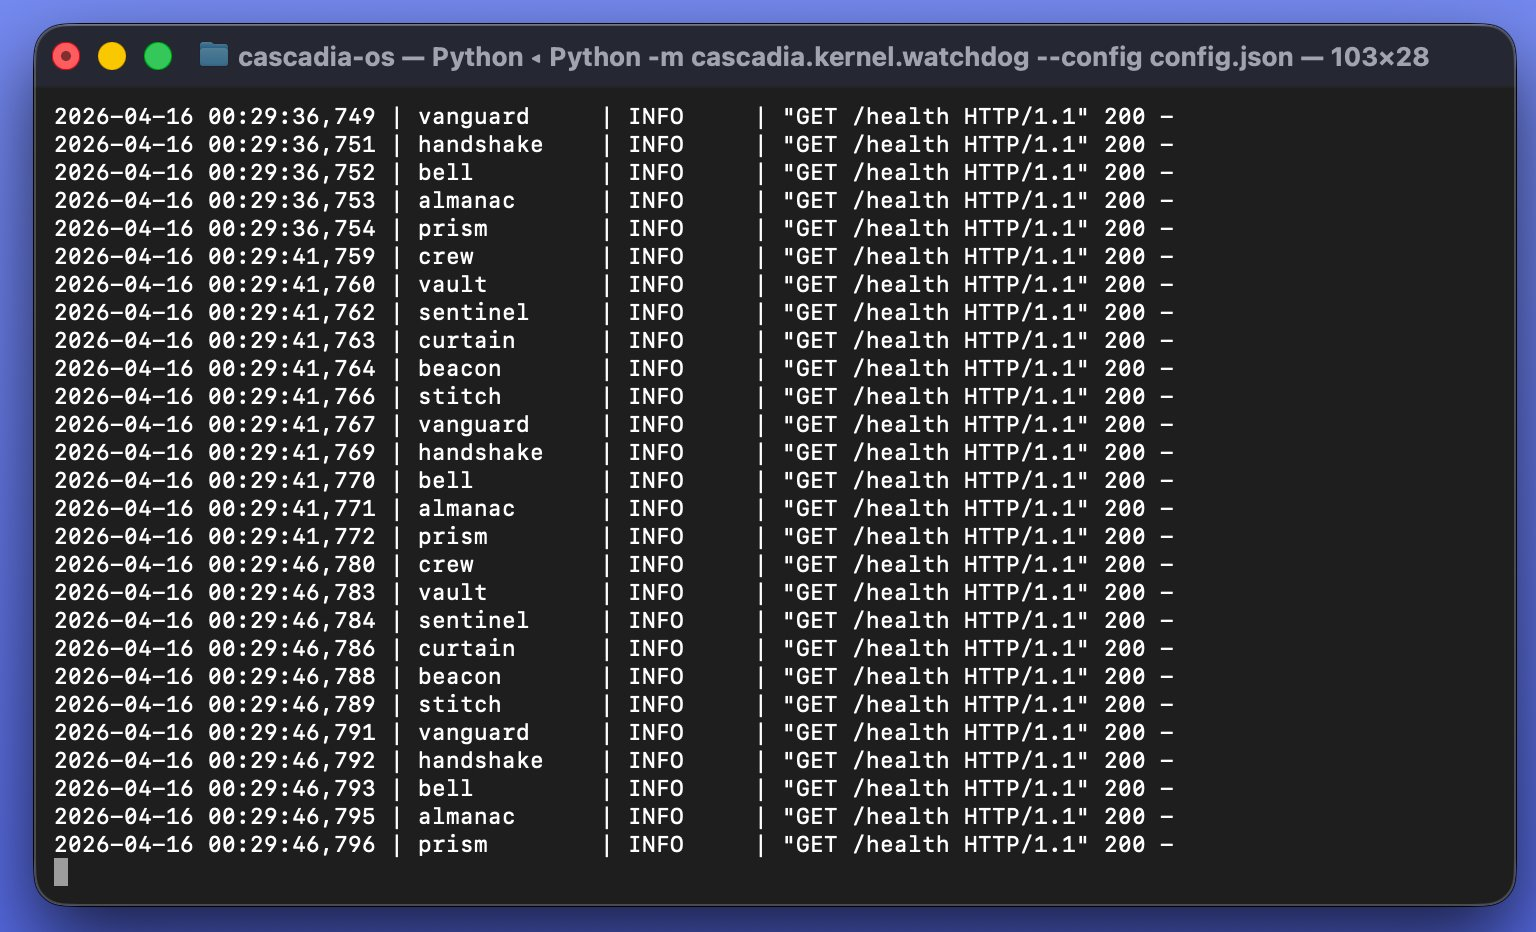
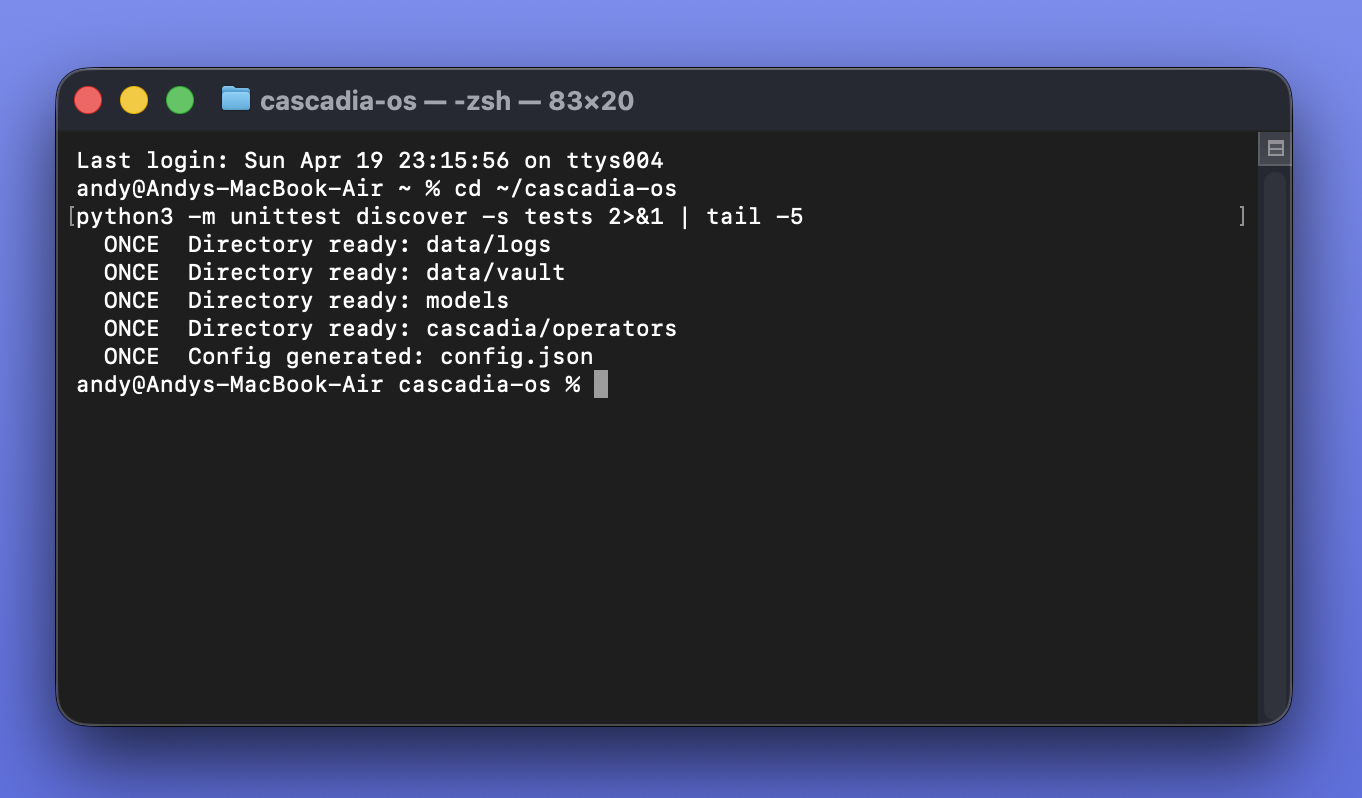
feat: 16 screenshots added — install, PRISM, operators, demo, health, approvals, RECON dashboard, GPU inference

diff --git a/README.md b/README.md
@@ -48,17 +48,39 @@ bash demo.sh
 
 ## See it working
 
-**One-click install — done in under a minute:**
+**One command installs everything — under a minute:**
 ![Install](./assets/install.png)
+![Install Complete](./assets/install_complete.png)
 
-**Watchdog running — all 11 kernel components healthy:**
-![Watchdog](./assets/watchdog.png)
-
-**PRISM dashboard — live system status:**
+**PRISM dashboard — all operators online, SwiftBar live status:**
 ![PRISM Dashboard](./assets/prism.png)
 
-**Crash recovery — 21/21 tests passed:**
-![Crash Recovery](./assets/crash_recovery.png)
+**Settings — hardware detection, Local AI recommended automatically:**
+![Settings](./assets/settings.png)
+
+**Health & Observability — infrastructure and operators, all green:**
+![Health](./assets/health.png)
+
+**Real metrics from session — 15 runs, $0.017, zero failures:**
+![Observability](./assets/observability.png)
+
+**Approval gates — nothing sensitive executes without human sign-off:**
+![Approvals](./assets/approvals.png)
+
+**Operators at work — Debrief extracting action items from call notes:**
+![Debrief](./assets/debrief.png)
+
+**CHIEF morning brief — RECON dashboard showing 67 rows, 283 research cycles:**
+![RECON Dashboard](./assets/recon_dashboard.png)
+
+**Demo — lead arrives, approval gate fires, system crashes, resumes exactly where it left off:**
+![Demo](./assets/demo_complete.png)
+
+**All 11 kernel components ready — one watchdog, one FLINT, stable:**
+![Watchdog](./assets/watchdog.png)
+
+**Local inference — Apple M1 running at full GPU acceleration, no cloud:**
+![GPU Inference](./assets/gpu_inference.png)
 
 ---
 
@@ -98,7 +120,6 @@ Cascadia OS coordinates AI operators that:
 ### Durability layer
 | Module | What it does |
 |---|---|
-| VAULT | SQLite-backed memory, context and state across sessions |
 | VAULT | SQLite-backed memory, context and state across sessions and crashes |
 | CURTAIN | AES-256-GCM field encryption, HMAC-SHA256 envelope signing |
 
@@ -158,7 +179,6 @@ Full documentation: [PRISM_MANUAL.md](./PRISM_MANUAL.md)
 |---|---|---|---|
 | RECON | Intelligence | Production | Autonomous web research, extracts contacts to CSV |
 | SCOUT | Inbound | Production | Chat widget, qualifies leads, routes to workflow |
-| QUOTE | Sales | Beta  | RFQ to proposal in under 5 minutes |
 | QUOTE | Sales | Beta | RFQ to proposal in under 5 minutes |
 | CHIEF | Intelligence | Beta | Daily brief synthesizing all operators |
 | Aurelia | Executive | Beta | EA — commitments, priorities, weekly CEO report |